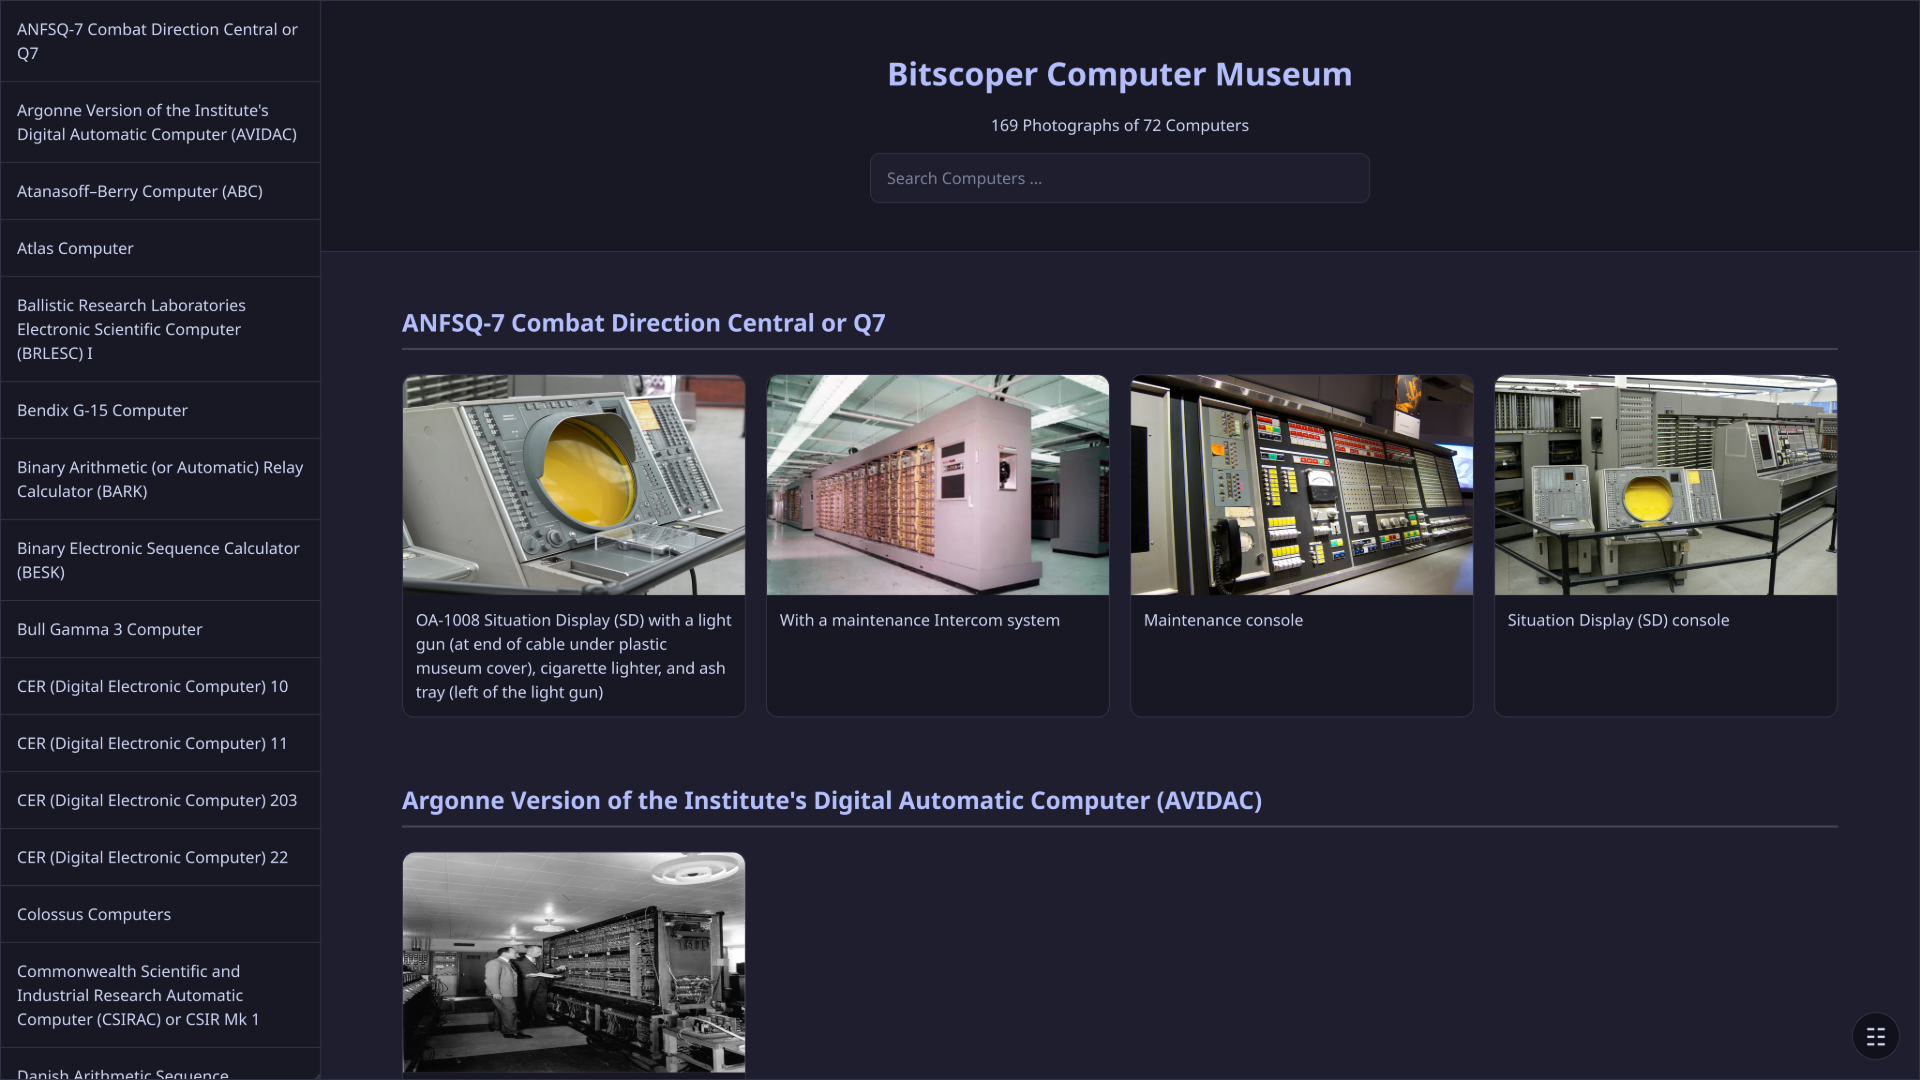
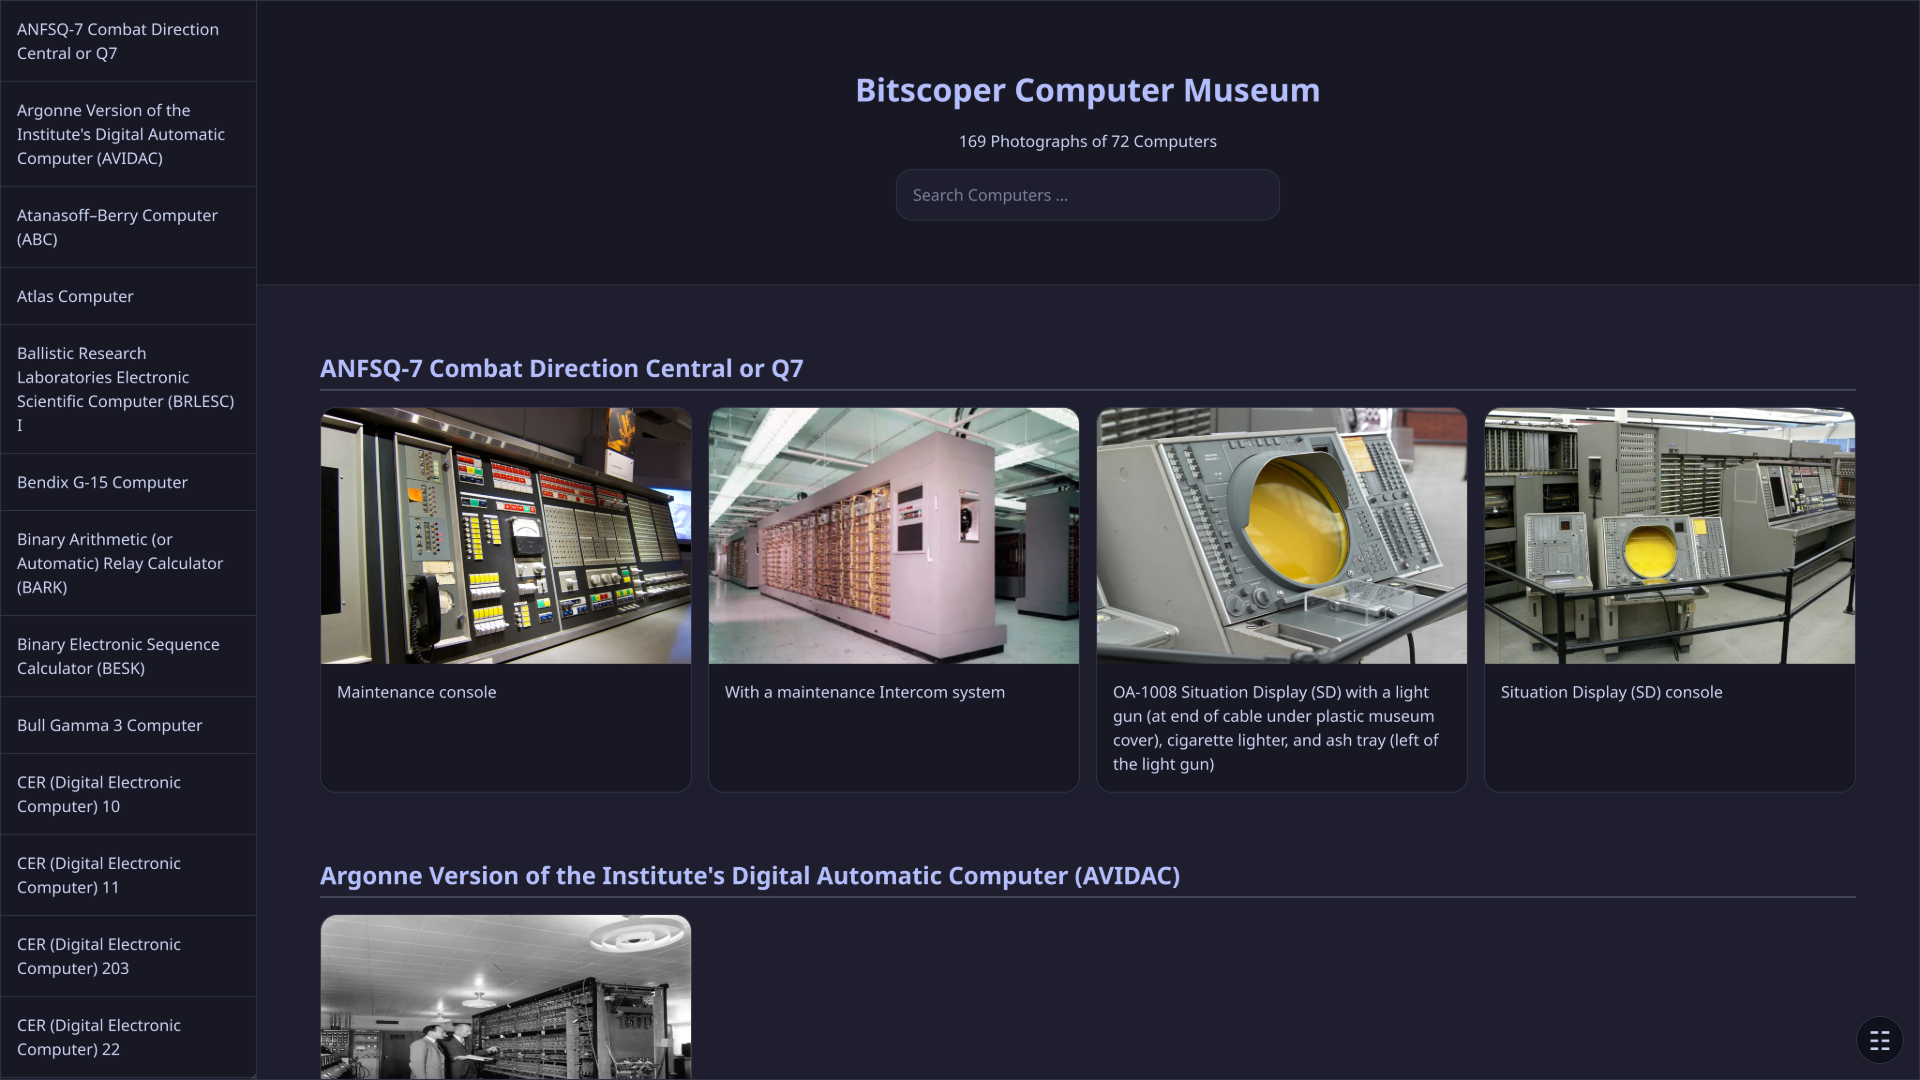
Updated Theme.

diff --git a/Template.html b/Template.html
@@ -86,13 +86,13 @@
 
       html,
       body {
-        margin: 0px;
+        margin: 0rem;
         height: 100%;
+        padding: 0rem;
       }
 
       body {
         display: flex;
-        margin: 0px;
         background-color: var(--base);
         flex-direction: row;
         line-height: 1.5;
@@ -102,7 +102,7 @@
 
       aside {
         display: block;
-        width: 320px;
+        width: 16rem;
         max-width: fit-content;
         height: 100vh;
         border-top: 1px solid var(--surface0);
@@ -128,14 +128,14 @@
       }
 
       aside nav ul {
-        margin: 0px;
-        padding: 0px;
+        margin: 0rem;
+        padding: 0rem;
         list-style: none;
       }
 
       aside nav ul li {
-        margin: 0px;
-        padding: 0px;
+        margin: 0rem;
+        padding: 0rem;
       }
 
       aside nav ul li a {
@@ -163,26 +163,27 @@
       main header {
         border-bottom: 1px solid var(--surface0);
         background-color: var(--mantle);
-        padding: 3rem 1rem;
+        padding: 4rem 1rem 4rem 1rem;
         text-align: center;
         color: var(--text);
       }
 
       main header h1 {
-        margin: 0px;
+        margin: 0rem;
         color: var(--lavender);
       }
 
       main header p {
+        margin: 1rem;
         color: var(--text);
       }
 
       main header form input[type="search"] {
-        width: min(500px, 100%);
+        width: min(24rem, 100%);
         border: 1px solid var(--surface0);
-        border-radius: 10px;
+        border-radius: 1rem;
         background-color: var(--base);
-        padding: 0.75rem 1rem;
+        padding: 0.8rem 1rem 0.8rem 1rem;
         font: inherit;
         color: var(--text);
         transition: border-color 0.2s;
@@ -195,31 +196,37 @@
 
       main article {
         margin: auto;
-        max-width: 1500px;
-        padding: 2rem;
+        max-width: 100rem;
       }
 
       main article section {
-        margin-bottom: 4rem;
+        margin: 4rem 2rem 4rem 2rem;
+      }
+
+      @media (max-width: 768px) {
+        main article section {
+          margin: 4rem 1rem 4rem 1rem;
+        }
       }
 
       main article section h2 {
-        margin-bottom: 1.5rem;
+        margin-top: 0rem;
+        margin-bottom: 1rem;
         border-bottom: 2px solid var(--surface1);
-        padding-bottom: 0.5rem;
+        padding-bottom: 0.2rem;
         color: var(--lavender);
       }
 
       main article section div {
         display: grid;
-        grid-template-columns: repeat(auto-fill, minmax(280px, 1fr));
-        gap: 20px;
+        grid-template-columns: repeat(auto-fill, minmax(20rem, 1fr));
+        gap: 1rem;
       }
 
       main article section div figure {
-        margin: 0px;
+        margin: 0rem;
         border: 1px solid var(--surface0);
-        border-radius: 12px;
+        border-radius: 1rem;
         background-color: var(--mantle);
         transition:
           border-color 0.2s,
@@ -229,7 +236,7 @@
       main article section div figure:hover,
       main article section div figure:focus {
         border-color: var(--surface2);
-        transform: translateY(-8px);
+        transform: translateY(-0.5rem);
       }
 
       main article section div figure img {
@@ -242,22 +249,22 @@
 
       main article section div figure img:not(:fullscreen) {
         width: 100%;
-        height: 220px;
+        height: 16rem;
         object-fit: fill;
-        border-top-right-radius: 12px;
-        border-top-left-radius: 12px;
+        border-top-right-radius: 1rem;
+        border-top-left-radius: 1rem;
         cursor: pointer;
       }
 
       main article section div figure figcaption {
-        padding: 0.8rem;
+        padding: 1rem;
         color: var(--text);
       }
 
       main footer {
         border-top: 1px solid var(--surface0);
         background-color: var(--mantle);
-        padding: 2rem;
+        padding: 4rem 1rem 4rem 1rem;
         text-align: center;
         color: var(--text);
       }
@@ -277,17 +284,17 @@
       main button {
         display: flex;
         position: fixed;
-        right: 20px;
-        bottom: 20px;
-        width: 48px;
-        height: 48px;
+        right: 1rem;
+        bottom: 1rem;
+        width: 3rem;
+        height: 3rem;
         border: 1px solid var(--surface0);
         border-radius: 50%;
         background-color: var(--crust);
         align-items: center;
         justify-content: center;
         text-align: center;
-        font-size: 24px;
+        font-size: 1.6rem;
         color: var(--text);
         cursor: pointer;
         transition:
@@ -303,8 +310,8 @@
 
       @media (max-width: 768px) {
         main button {
-          right: 10px;
-          bottom: 10px;
+          right: 0.4rem;
+          bottom: 0.4rem;
         }
       }
     </style>